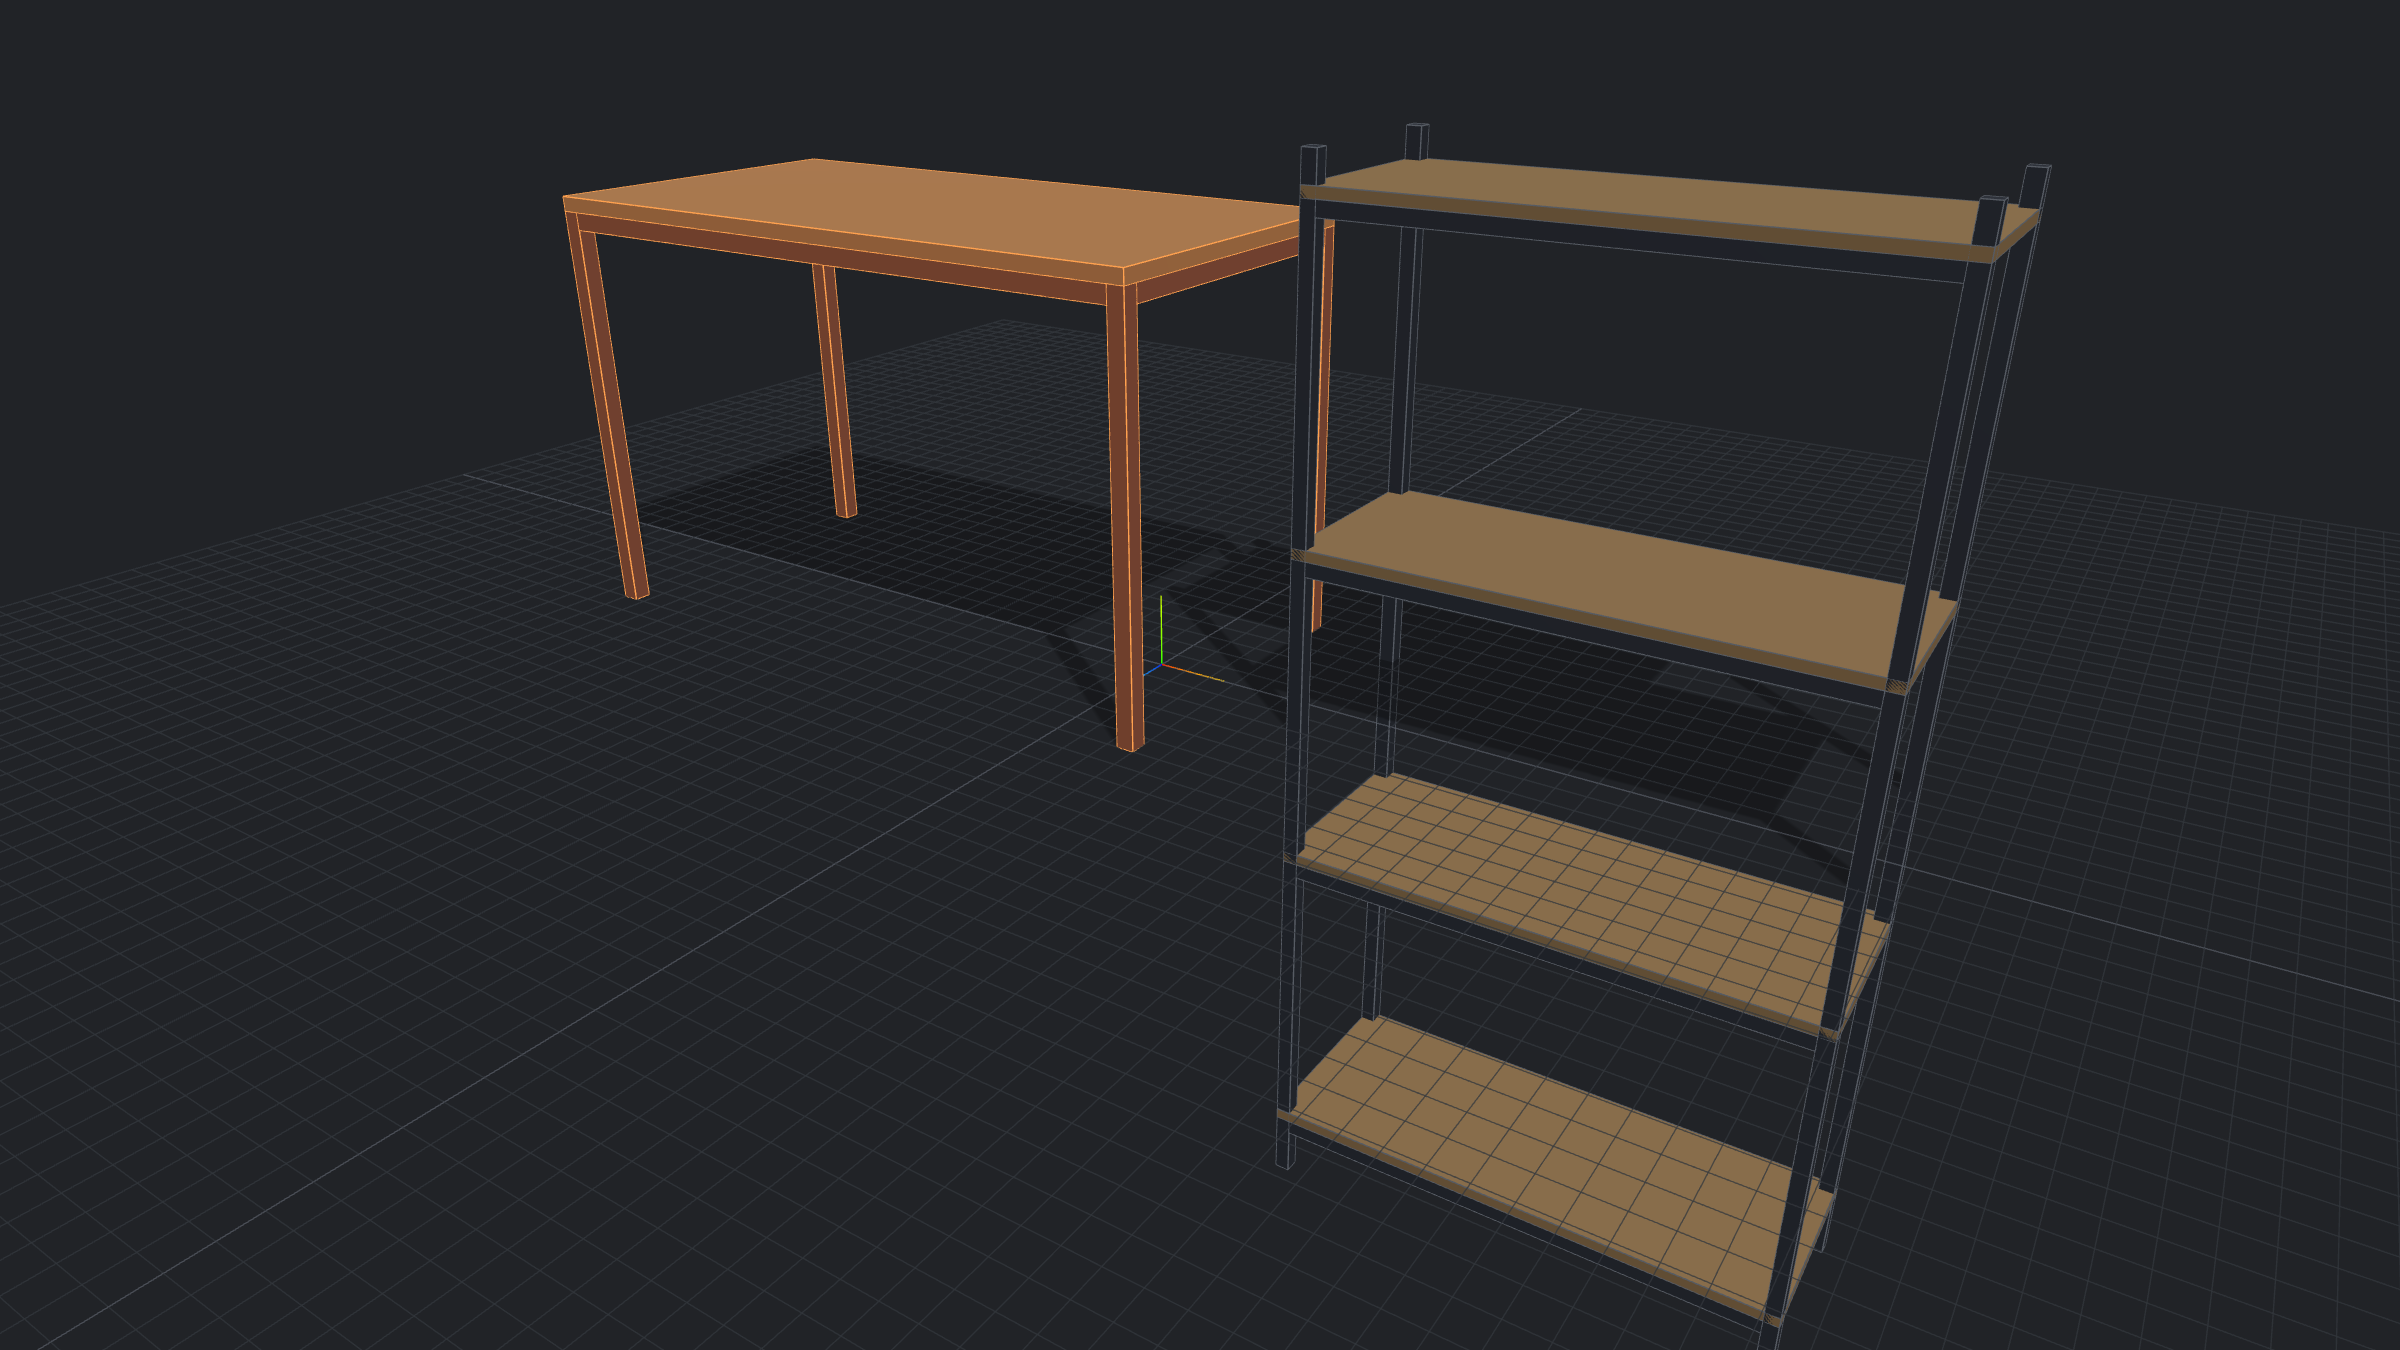
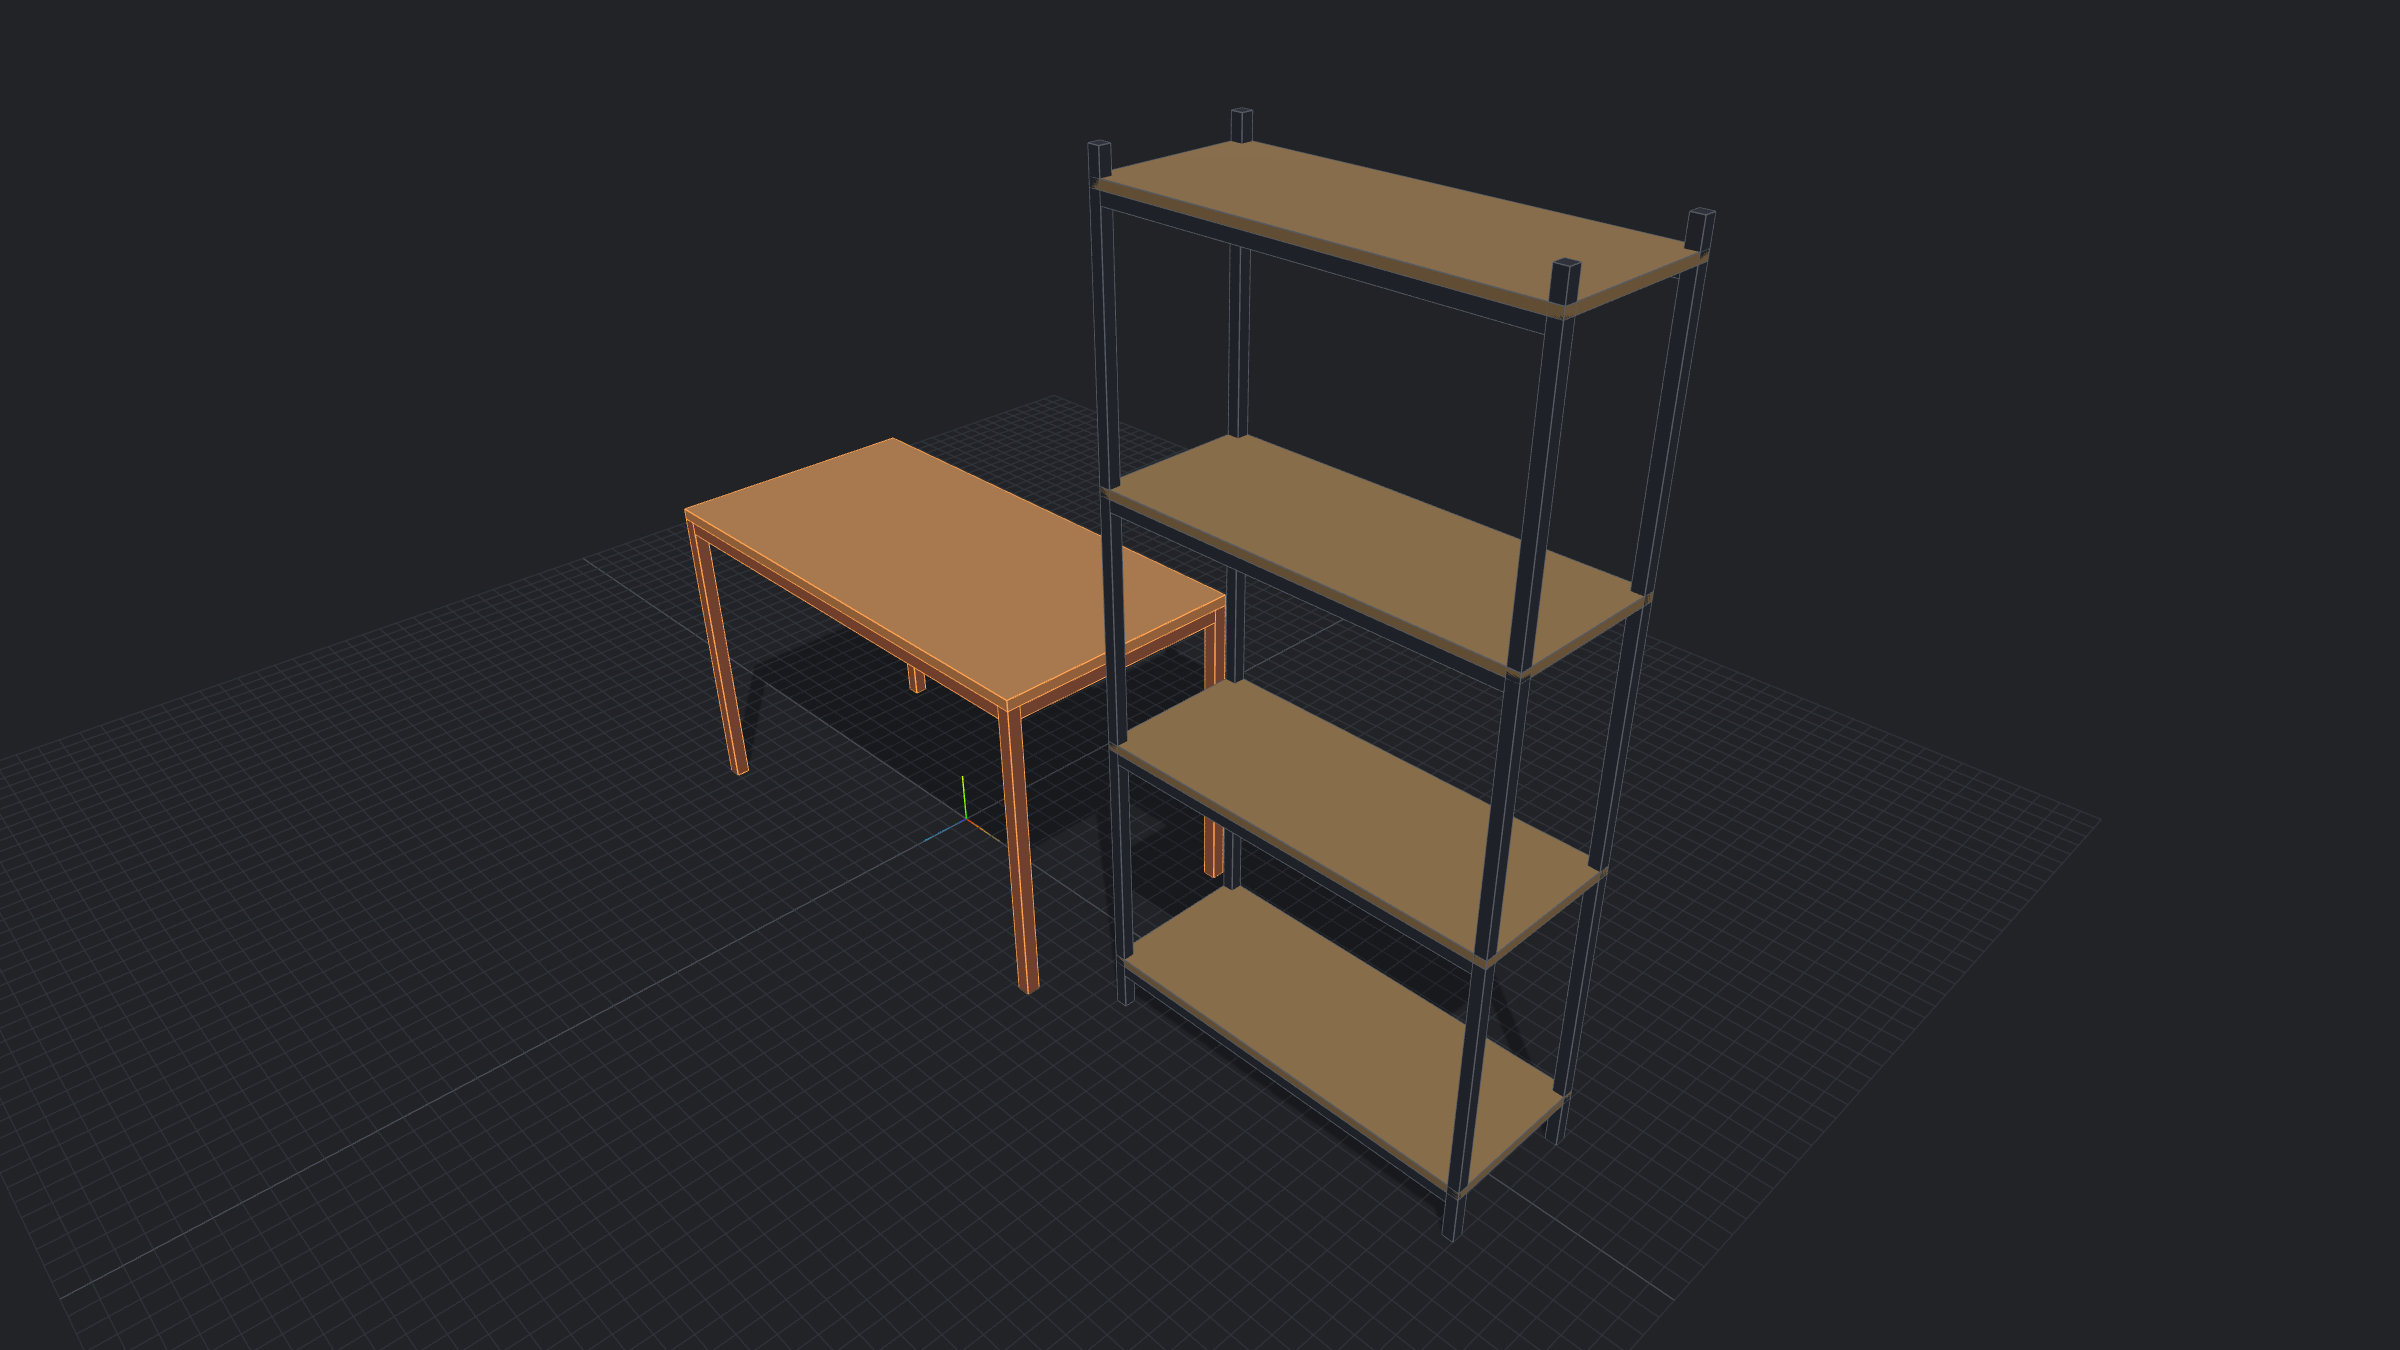
fix: images

Changed region(s): [[0.2188, 0.0933, 0.875, 0.9956]]

diff --git a/app/src/style.css b/app/src/style.css
@@ -208,6 +208,10 @@ button svg, .export-item svg {
 /* ═══ Campos ═══ */
 .field { margin-top: 10px; }
 .field:first-child { margin-top: 0; }
+/* En fila el margen no separa: desplaza. Los contenedores horizontales ya
+   espacian con gap, así que acá el ritmo vertical sobra. */
+.field-pair > .field,
+.bom-settings > .field { margin-top: 0; }
 .field label, .new-params label {
   display: flex; align-items: baseline; justify-content: space-between;
   font-size: 11px; font-weight: 500; color: var(--text-dim);
